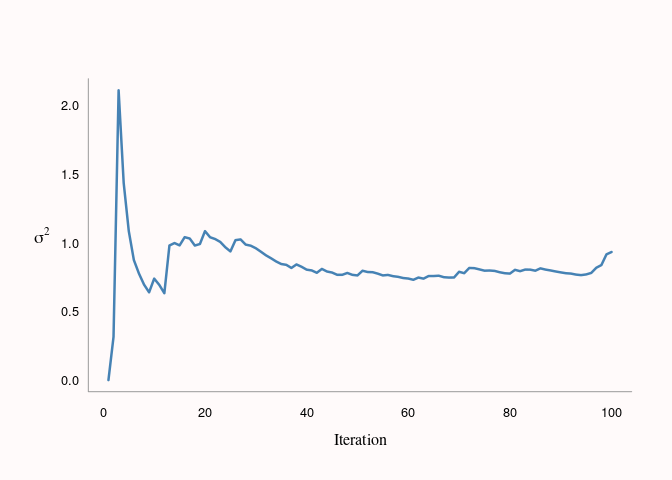
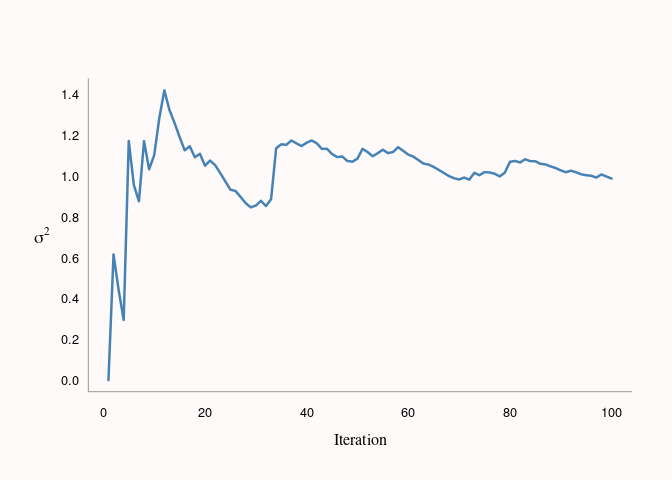
Added faster sample()

diff --git a/README.md b/README.md
@@ -9,6 +9,7 @@ Adam Bartonicek
     -   [Euler’s method](#eulers-method)
     -   [Determinant via
         row-operations](#determinant-via-row-operations)
+    -   [Faster `sample()`](#faster-sample)
     -   [Inverse transform random
         sampling](#inverse-transform-random-sampling)
     -   [Piecewise linear regression](#piecewise-linear-regression)
@@ -41,15 +42,16 @@ the vector is big or when we need to repeat the process many times).
 
 The formula for the new mean is a simple weighted average of the old
 mean and the new observation. The formula for the new variance is more
-complicated and is not numerically stable (the difference between old
-and new variance is extremely small for large enough *n*), so it is
-easier to compute cumulative sum of squares and then divide by *n* − 1
-to get the variance.
+complicated and not very numerically stable (the difference between old
+and new variance will be very small after enough iterations). As such,
+it is easier to compute the (numerically stable) cumulative sum of
+squares and then divide by *n* − 1 to get the variance.
 
 (from [Wikipedia article on Algorithms for calculating
 variance](https://en.wikipedia.org/wiki/Algorithms_for_calculating_variance))
 
 ``` r
+set.seed(123456)
 x <- rnorm(100)
 n <- seq_along(x)
 
@@ -168,6 +170,35 @@ c(det_row(mat), det(mat))
 
     ## [1] -95 -95
 
+## Faster `sample()`
+
+Generate a vector of random numbers (possibly integers) using `runif()`.
+Faster than using `sample()`. Useful for e.g. simulation or generating
+cross-validation indices.
+
+(from the great [STATS782 Statistical
+Computing](https://study.sagepub.com/lambert) course at UoA)
+
+``` r
+set.seed(123456)
+# Same result as sample(1:9, 100, replace = TRUE)
+ceiling(runif(20, 0, 9))
+```
+
+    ##  [1] 8 7 4 4 4 2 5 1 9 2 8 6 9 8 9 9 8 2 4 7
+
+``` r
+n <- 1e7
+t1 <- system.time(ceiling(runif(n, 0, 9))) # Almost 2 x faster
+t2 <- system.time(sample(1:9, n, replace = TRUE))
+
+rbind(t1, t2)
+```
+
+    ##    user.self sys.self elapsed user.child sys.child
+    ## t1     0.312    0.012   0.325          0         0
+    ## t2     0.563    0.016   0.580          0         0
+
 ## Inverse transform random sampling
 
 Generate random samples for an arbitrary distribution by using inverse
@@ -206,15 +237,15 @@ x <- icdf(samples) * ifelse(runif(1000, 0, 2) > 1, 1, -1)
 # Plot code not shown (see .Rmd)
 ```
 
-<img src="README_files/figure-gfm/unnamed-chunk-8-1.png" style="display: block; margin: auto;" />
+<img src="README_files/figure-gfm/unnamed-chunk-9-1.png" style="display: block; margin: auto;" />
 
 ## Piecewise linear regression
 
-Fit a linear regression model (in base R) with pre-specified
-break-points (knots) in the trend. A quick and dirty way to fit fairly
-non-linear data without having to use splines, polynomials, etc…
+Fit a “piecewise” linear regression model (in base R) with pre-specified
+break-points (knots). A quick and dirty way to fit fairly non-linear
+data without having to use splines, polynomials, etc…
 
-(from the amazing [STATS782 Statistical
+(from the great [STATS782 Statistical
 Computing](https://study.sagepub.com/lambert) course at UoA)
 
 ``` r
@@ -239,7 +270,7 @@ newy <- predict(fit1, data.frame(newX), type = 'response',
                 interval = 'prediction')
 ```
 
-<img src="README_files/figure-gfm/unnamed-chunk-10-1.png" style="display: block; margin: auto;" />
+<img src="README_files/figure-gfm/unnamed-chunk-11-1.png" style="display: block; margin: auto;" />
 
 ## Pseudo-random number generation (linear congruential generator)
 
@@ -273,4 +304,4 @@ s <- s / max(s)
 # Plot code not shown (see .Rmd)
 ```
 
-<img src="README_files/figure-gfm/unnamed-chunk-12-1.png" style="display: block; margin: auto;" />
+<img src="README_files/figure-gfm/unnamed-chunk-13-1.png" style="display: block; margin: auto;" />
